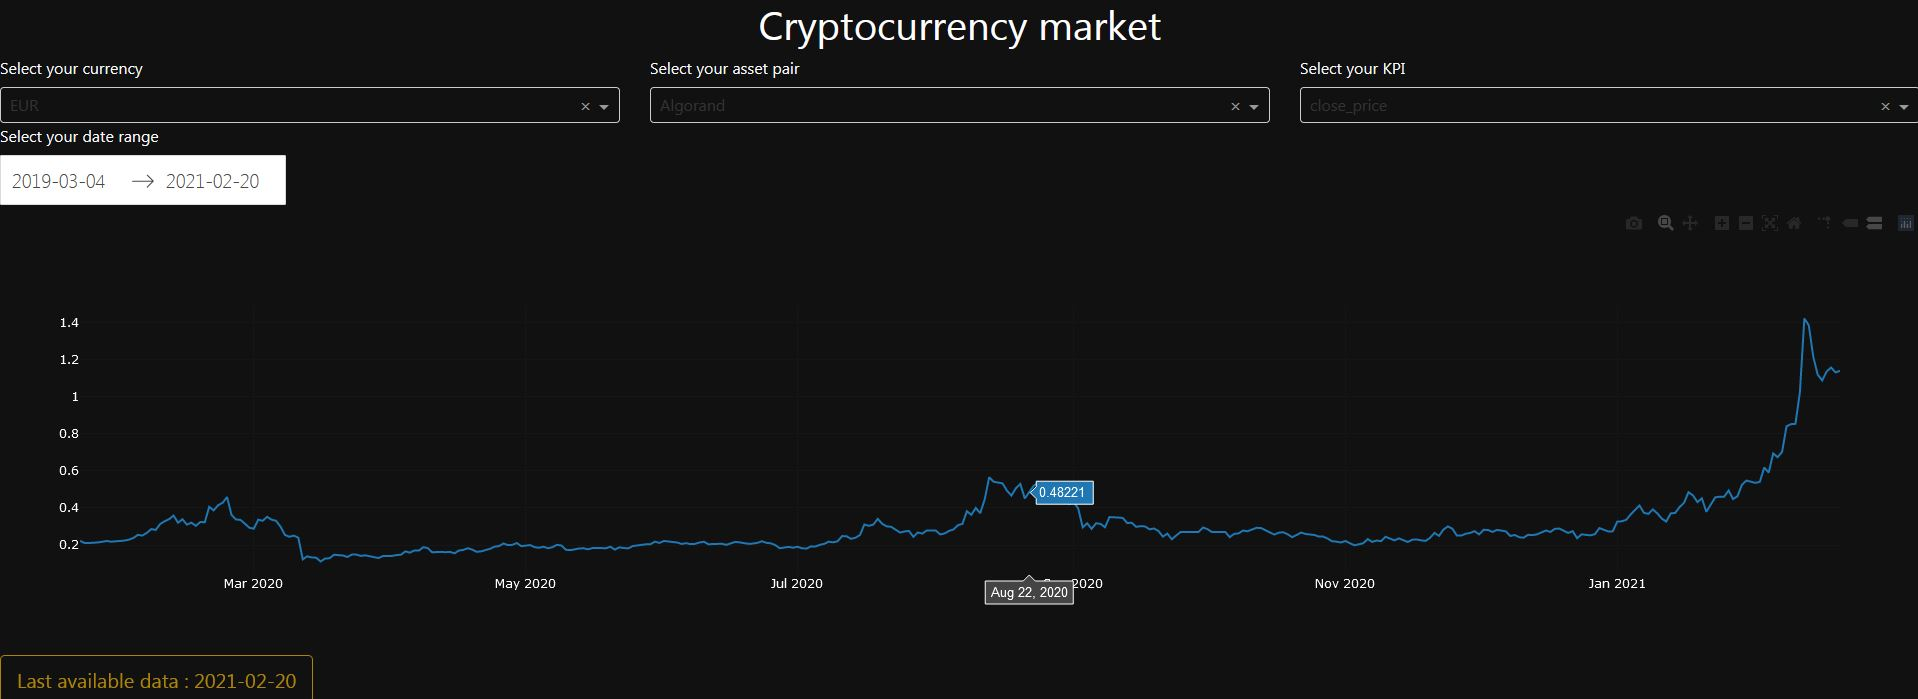
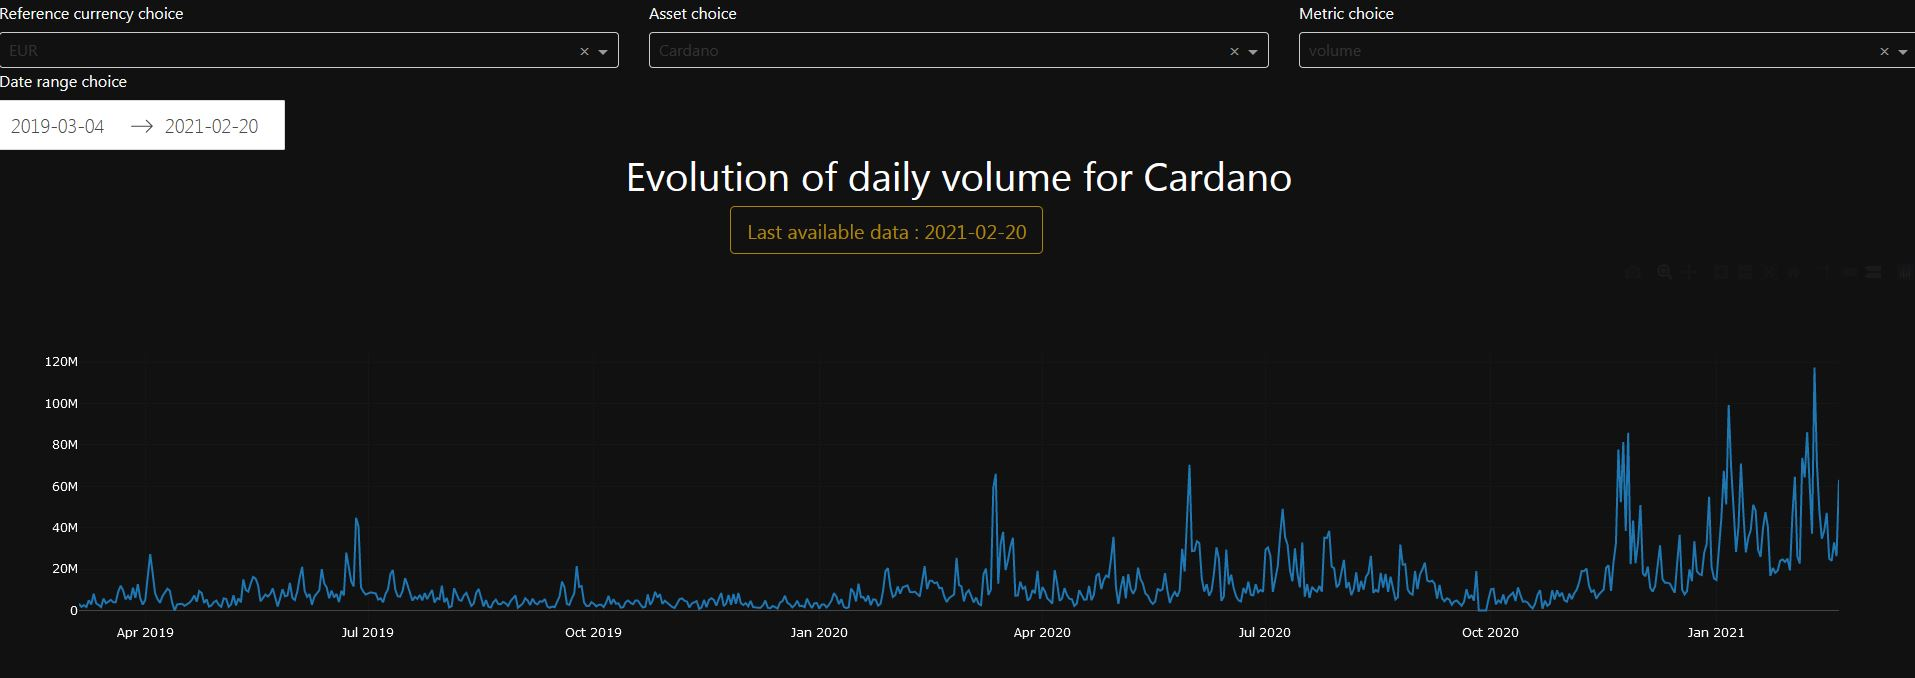
feat:improve layout + code style

diff --git a/app.py b/app.py
@@ -53,25 +53,19 @@ app.layout = html.Div(
     style={'backgroundColor': colors['background'],
            'color': colors['text_dropdowns']},
     children=[
-        html.H1(
-            children='Cryptocurrency market',
-            style={
-                'textAlign': 'center',
-                'color': colors['text']
-            }
-        ),
         dbc.Row(
             [
                 dbc.Col(
-                    html.Label(children='Select your currency', style={'color': colors['text_dropdowns']})
+                    html.Label(children='Reference currency choice', style={'color': colors['text_dropdowns']})
                 ),
                 dbc.Col(
-                    html.Label(children='Select your asset pair', style={'color': colors['text_dropdowns']})
+                    html.Label(children='Asset choice', style={'color': colors['text_dropdowns']})
                 ),
                 dbc.Col(
-                    html.Label(children='Select your KPI', style={'color': colors['text_dropdowns']})
+                    html.Label(children='Metric choice', style={'color': colors['text_dropdowns']})
                 )
-            ]
+            ],
+            justify="center"
         ),
         dbc.Row(
             [
@@ -99,23 +93,48 @@ app.layout = html.Div(
                         style={'backgroundColor': colors['background'], 'color': 'black'}
                     )
                 )
+            ],
+            justify="center"
+        ),
+
+        html.Label(children='Date range choice', style={'color': colors['text_dropdowns']}),
+
+        html.Div(
+            [
+                dcc.DatePickerRange(
+                    id='date_picker_range',
+                    display_format='YYYY-MM-DD',
+                    month_format='YYYY, MMMM',
+                    start_date=dt.datetime.strptime(result_ohlc['time'].min(), "%Y-%m-%d %H:%M:%S"),
+                    end_date=dt.datetime.strptime(result_ohlc['time'].max(), "%Y-%m-%d %H:%M:%S"),
+                    end_date_placeholder_text='Select a date!',
+                    style={'backgroundColor': colors['background'], 'color': 'black'}
+                ),
             ]
         ),
 
+        html.H1(
+            id='title',
+            style={'textAlign': 'center', 'color': colors['text']}
+        ),
 
-        html.Label(children='Select your date range', style={'color': colors['text_dropdowns']}),
-        html.Div([
-            dcc.DatePickerRange(
-                id='date_picker_range',
-                display_format='YYYY-MM-DD',
-                month_format='YYYY, MMMM',
-                start_date=dt.datetime.strptime(result_ohlc['time'].min(), "%Y-%m-%d %H:%M:%S"),
-                end_date=dt.datetime.strptime(result_ohlc['time'].max(), "%Y-%m-%d %H:%M:%S"),
-                end_date_placeholder_text='Select a date!',
-                style={'backgroundColor': colors['background'],
-                       'color': 'black'}
+        dbc.Row(
+            dbc.Col(
+                html.Div(
+                    [
+                        dbc.Button(
+                            f"Last available data : {max(result_ohlc.time)[:10]}",
+                            size="lg",
+                            outline=True,
+                            color=f"{status_mapping[status]}",
+                            disabled=True,
+                            className="mr-1"
+                        )
+                    ]
+                ),
+                width={"size": 6, "offset": 3}
             ),
-        ]
+            justify="center"
         ),
 
         dcc.Graph(
@@ -132,21 +151,44 @@ app.layout = html.Div(
                     }
                 }
             }
-        ),
-
-        html.Div([
-            dbc.Button(
-                f"Last available data : {max(result_ohlc.time)[:10]}",
-                size="lg",
-                outline=True,
-                color=f"{status_mapping[status]}",
-                disabled=True,
-                className="mr-1"
-            )
-        ]
         )
     ]
 )
+
+
+@app.callback(
+    dash.dependencies.Output('title', 'children'),
+    [
+        dash.dependencies.Input('currency_choice', 'value'),
+        dash.dependencies.Input('asset_choice', 'value'),
+        dash.dependencies.Input('measure_choice', 'value')
+    ]
+)
+def update_title(currency, asset, metric):
+    """
+    Update graph title according to dropdown values.
+
+    :param currency: reference currency choice
+    :type currency: string
+    :param asset: asset choice
+    :type asset: string
+    :param metric: metric choice
+    :type metric: string
+
+    :return: graph title
+    :rtype: string
+    """
+    try:
+        asset_label = mapping[pairs[asset]['asset']]
+    except KeyError:
+        asset_label = ''
+    if asset_label == '':
+        return ''
+    else:
+        if 'price' in metric:
+            return f"Evolution of daily {metric} for {asset_label} (in {currency})"
+        else:
+            return f"Evolution of daily {metric} for {asset_label}"
 
 
 @app.callback(
@@ -168,10 +210,13 @@ def update_assets_list(curr):
 
 @app.callback(
     dash.dependencies.Output('graph_1', 'figure'),
-    [dash.dependencies.Input('asset_choice', 'value'),
-     dash.dependencies.Input('measure_choice', 'value'),
-     dash.dependencies.Input('date_picker_range', 'start_date'),
-     dash.dependencies.Input('date_picker_range', 'end_date')])
+    [
+        dash.dependencies.Input('asset_choice', 'value'),
+        dash.dependencies.Input('measure_choice', 'value'),
+        dash.dependencies.Input('date_picker_range', 'start_date'),
+        dash.dependencies.Input('date_picker_range', 'end_date')
+    ]
+)
 def update_graph(selected_asset, selected_measure, selected_start_date, selected_end_date):
     """
     Update graph component, base on asset, measure, start date and end date.
